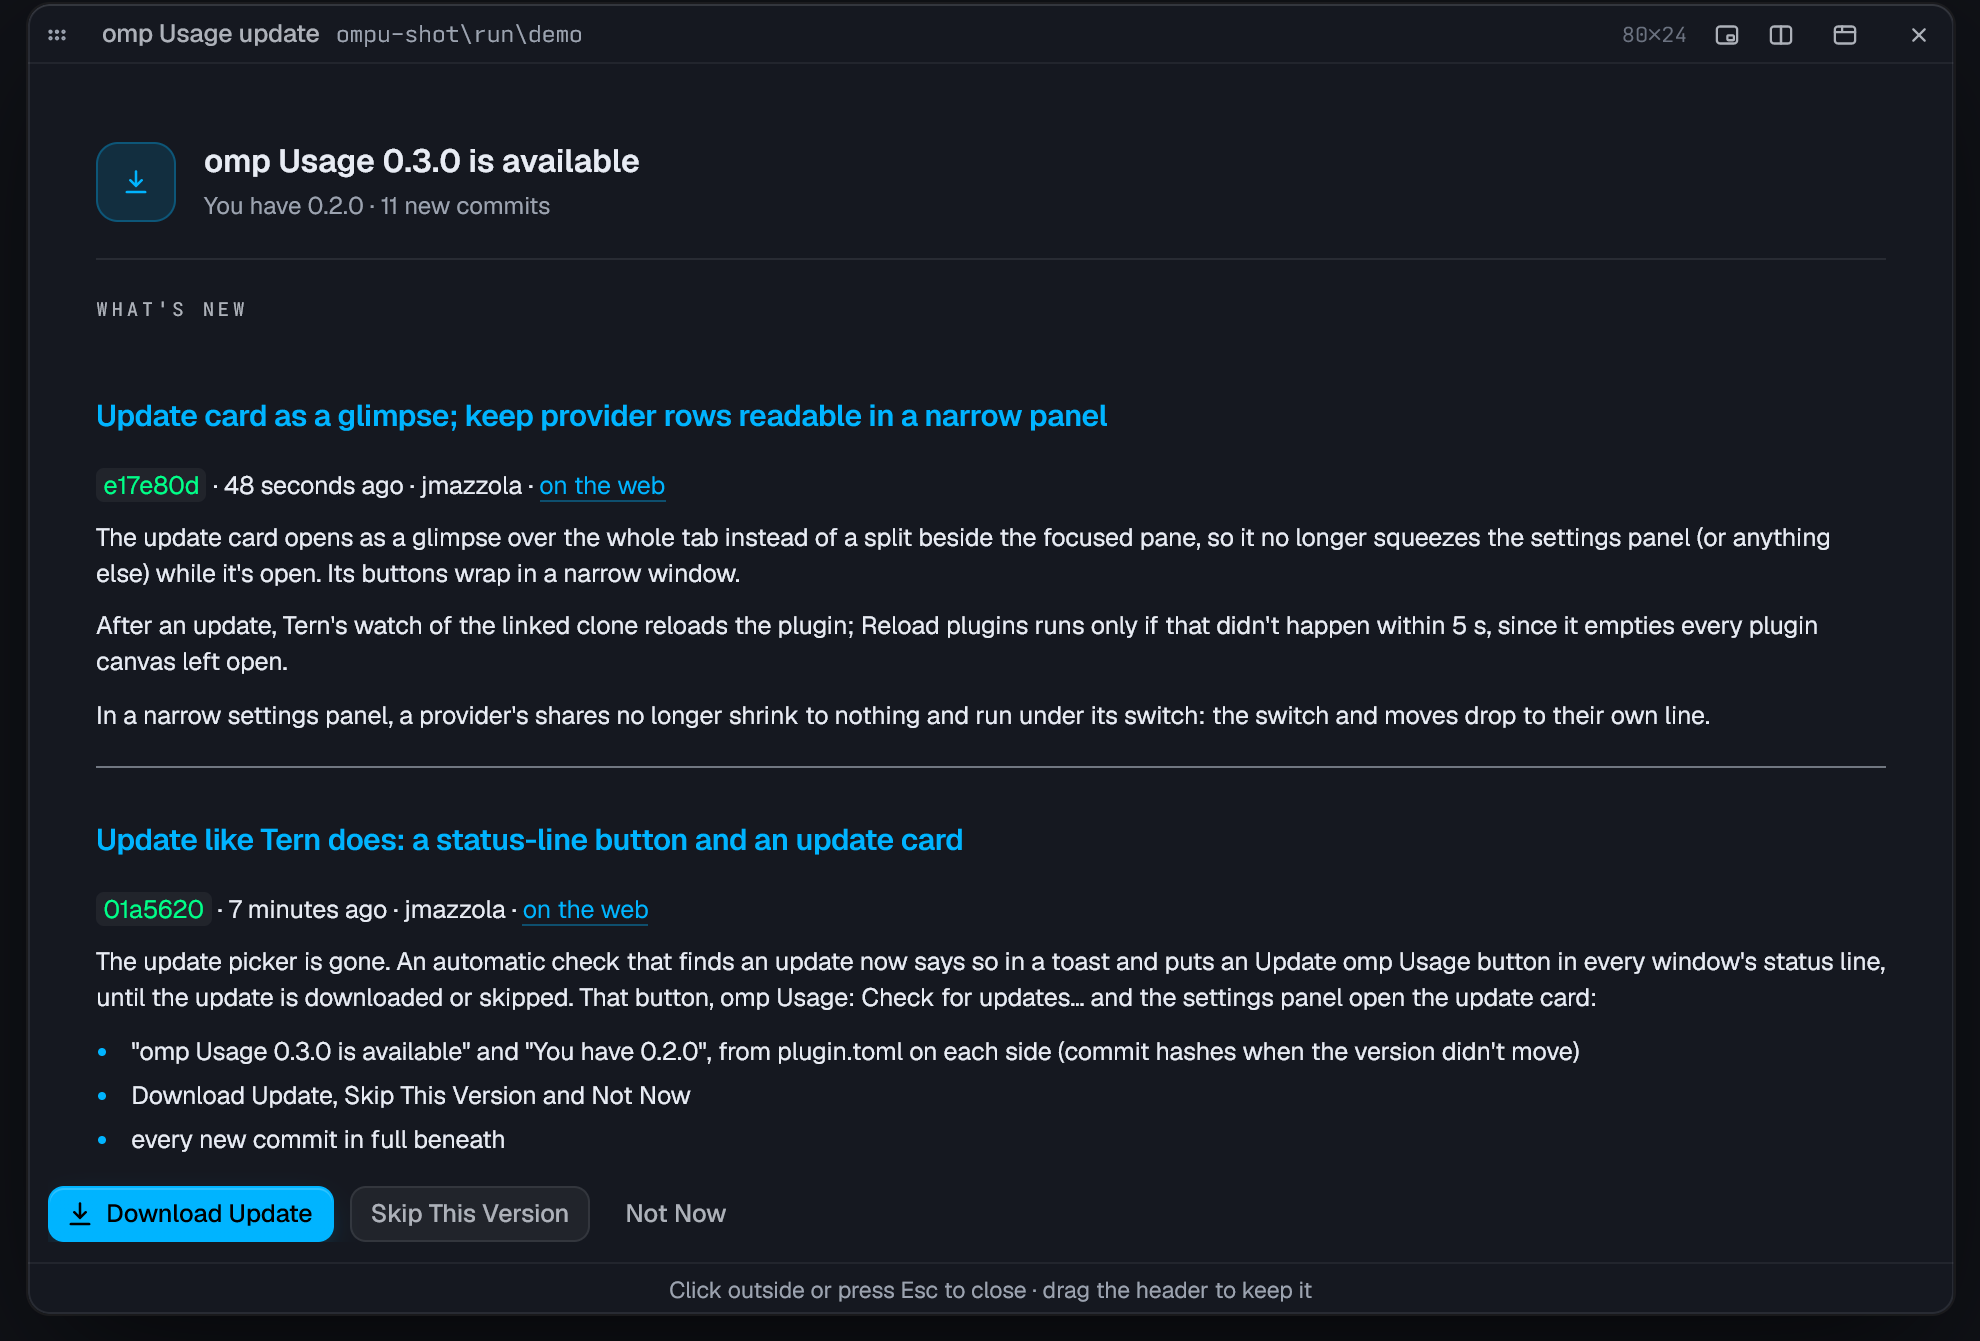
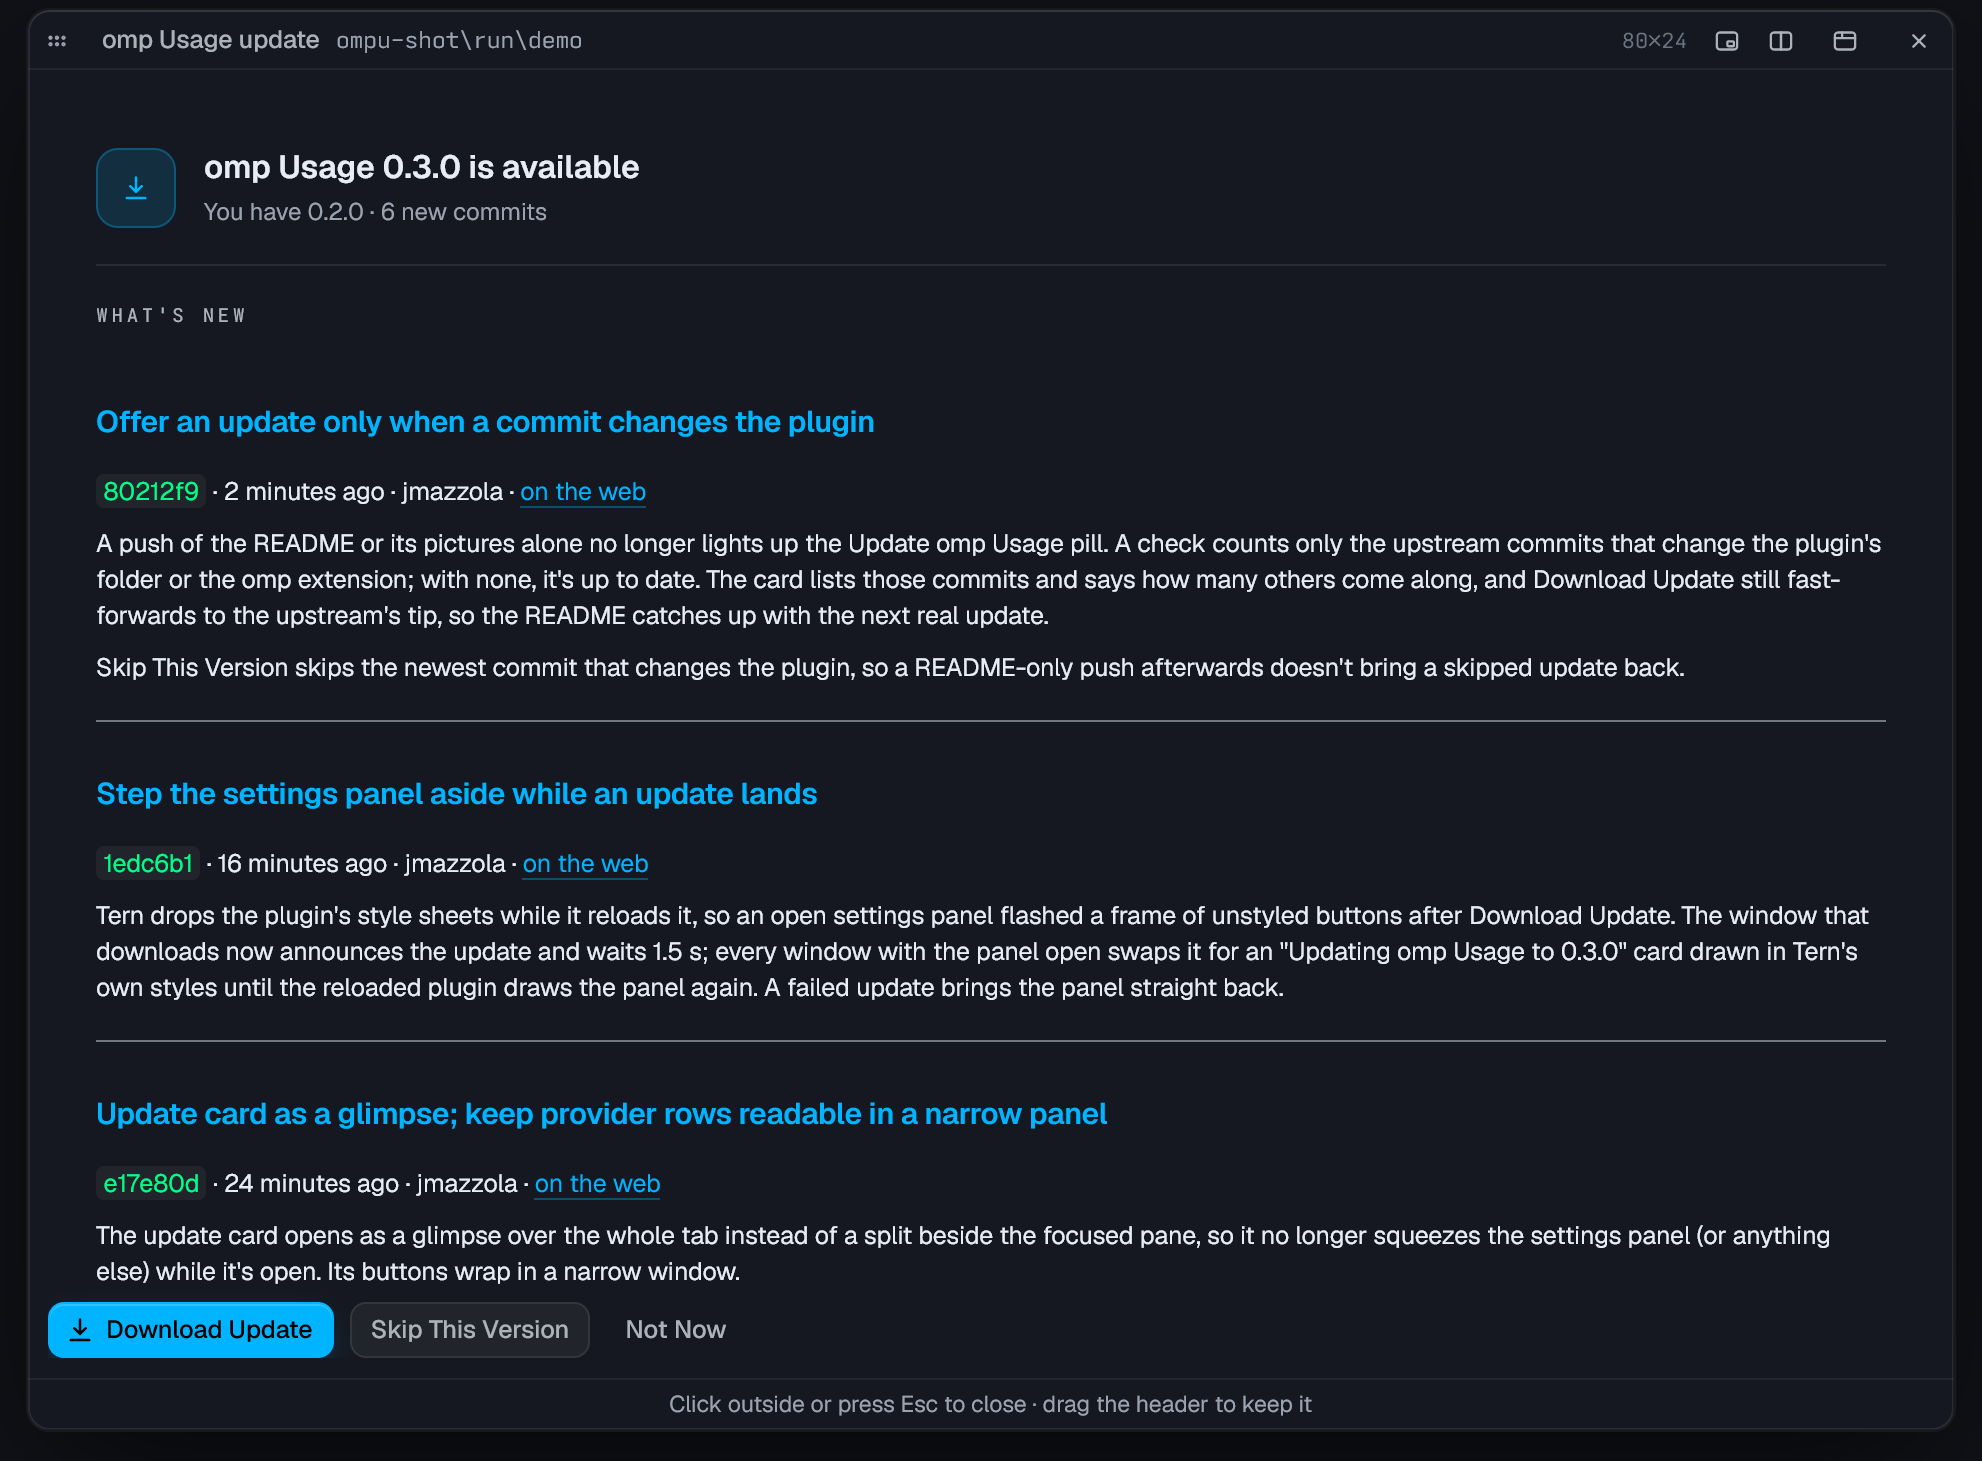
0.3.1: offer an update only when a commit changes the plugin
A push of the README or its pictures alone no longer lights up the Update
omp Usage pill. A check counts only the upstream commits that change the
plugin's folder or the omp extension; with none, it's up to date. The card
lists those commits and says how many others come along, and Download
Update still fast-forwards to the upstream's tip, so the README catches up
with the next real update.

Skip This Version skips the newest commit that changes the plugin, so a
README-only push afterwards doesn't bring a skipped update back.

README: the update card leads the page, the Update section explains which
commits count, and its pictures show the pill, the card and an update
landing.

diff --git a/README.md b/README.md
@@ -26,8 +26,10 @@ expires, listed under the window it resets.
   marked `+NF` on the line and labeled in the card. Credits queued behind another reset are included in the count.
 - Change what it shows, the providers' order, which of each provider's windows show, and their colors in a
   settings panel: Ctrl+Alt+U, or **usage** in the status bar.
-- Keeps itself up to date the way Tern does: when your clone's remote has a new version, an **Update omp Usage**
-  button appears in the status line, and an update card shows what's new and downloads it (see [Update](#update)).
+- Keeps itself up to date, the way Tern does: when a new version is out, an **Update omp Usage** pill appears in the
+  status line, and one click shows what's new and installs it. Nothing pops up over your work (see [Update](#update)).
+
+![The update card: omp Usage 0.3.0 is available, You have 0.2.0 · 6 new commits, What's new with each commit's full message, and Download Update, Skip This Version and Not Now](docs/images/update-card.png)
 
 | Part | What it does |
 | --- | --- |
@@ -171,20 +173,29 @@ the last check (or an hour, when the last one couldn't reach the remote). Like T
 interrupt you: when there's a new version, a toast says so once, and an **Update omp Usage** pill appears in the
 status line of every window (with the status bar on) until you download or skip it.
 
-![The Update omp Usage pill at the right of the status line, and the settings panel's Updates section: omp Usage 0.3.0 is available, You have 0.2.0, Download Update and What's New, then Check automatically](docs/images/update-status.png)
+Only commits that change the plugin (the `omp-usage` folder) or the omp extension (the `omp` folder) count as an
+update. A push of just the README or its pictures doesn't light up the pill; those commits come along with the next
+real update, and the card says how many there are.
+
+![The settings panel's Updates section, omp Usage 0.3.0 is available, You have 0.2.0, with Download Update and What's New, and the Update omp Usage pill at the right of the status line](docs/images/update-status.png)
 
 Click it, or run **omp Usage: Check for updates…**, or **Check for Updates** in the settings panel, and the update
 card opens over the tab: the version that's available and the one you have (from `plugin.toml` on each side, or
-commit hashes when the version didn't change), and every new commit in full underneath, with its hash, age, author
-and a link to it on the web (for a GitHub-style remote).
+commit hashes when the version didn't change), and every commit that changes the plugin in full underneath, with
+its hash, age, author and a link to it on the web (for a GitHub-style remote).
 
-![The update card: omp Usage 0.3.0 is available, You have 0.2.0, What's new with each commit's full message, and Download Update, Skip This Version and Not Now](docs/images/update-card.png)
+![The update card: omp Usage 0.3.0 is available, You have 0.2.0 · 6 new commits, What's new with each commit's full message, and Download Update, Skip This Version and Not Now](docs/images/update-card.png)
 
 | Button | What it does |
 | --- | --- |
-| **Download Update** | Fast-forwards the clone to the newest commit and Tern reloads the plugin. If the update changed the omp extension, the toast says to restart omp sessions |
-| **Skip This Version** | Stays where you are; the pill and toast stay away until there's a newer version |
+| **Download Update** | Fast-forwards the clone to the remote's newest commit (README commits included) and Tern reloads the plugin. If the update changed the omp extension, the toast says to restart omp sessions |
+| **Skip This Version** | Stays where you are; the pill and toast stay away until a newer commit changes the plugin |
 | **Not Now**, Esc, or a click outside | Closes the card; the pill stays |
+
+While the update lands, any open settings panel, in any window, steps aside for a moment rather than flash half
+drawn as Tern reloads the plugin, and a toast confirms the new version:
+
+![Updating omp Usage to 0.3.0, Downloading the update and reloading the plugin, then the toast omp Usage updated to 0.3.0](docs/images/update-landing.png)
 
 Checking by hand (**Check for Updates** in the settings panel, or **omp Usage: Check for updates…**) shows the card
 even for a version you skipped, or says omp Usage is up to date. To check more or less often, or never, pick under
@@ -221,7 +232,8 @@ Then restart omp sessions if the extension changed.
 | All or Selected providers shows only the current model | The cache is missing or older than 10 minutes: restart omp sessions started before the extension was updated |
 | Ctrl+Alt+U doesn't open the panel | Another binding or your keyboard layout (where Ctrl+Alt types characters) took it. The hover card's last row shows the chord in effect; bind `plugin.omp-usage.panel` to another in Tern's keybinds |
 | Line stopped after an omp or Tern update | omp may have renamed what the plugin reads. Ask omp to fix `omp-usage` |
-| No update prompt, or `omp Usage can't check for updates` | The repo folder must be a git clone whose branch tracks a remote, with git on `PATH`. **omp Usage: Check for updates…** shows git's reason |
+| No Update omp Usage pill when an update is out | The pill lives in Tern's status line: turn the status bar on, or use the settings panel's Updates section, which says the same. Automatic checks might be **Off** (Updates › Check automatically) |
+| `omp Usage can't check for updates` | The repo folder must be a git clone whose branch tracks a remote, with git on `PATH`. **omp Usage: Check for updates…** shows git's reason |
 | Edits to `window.luau` don't show | Run `tern plugin reload` |
 
 Don't edit Tern's `settings.json` from PowerShell. It saves the file with a BOM, and Tern falls back to its
